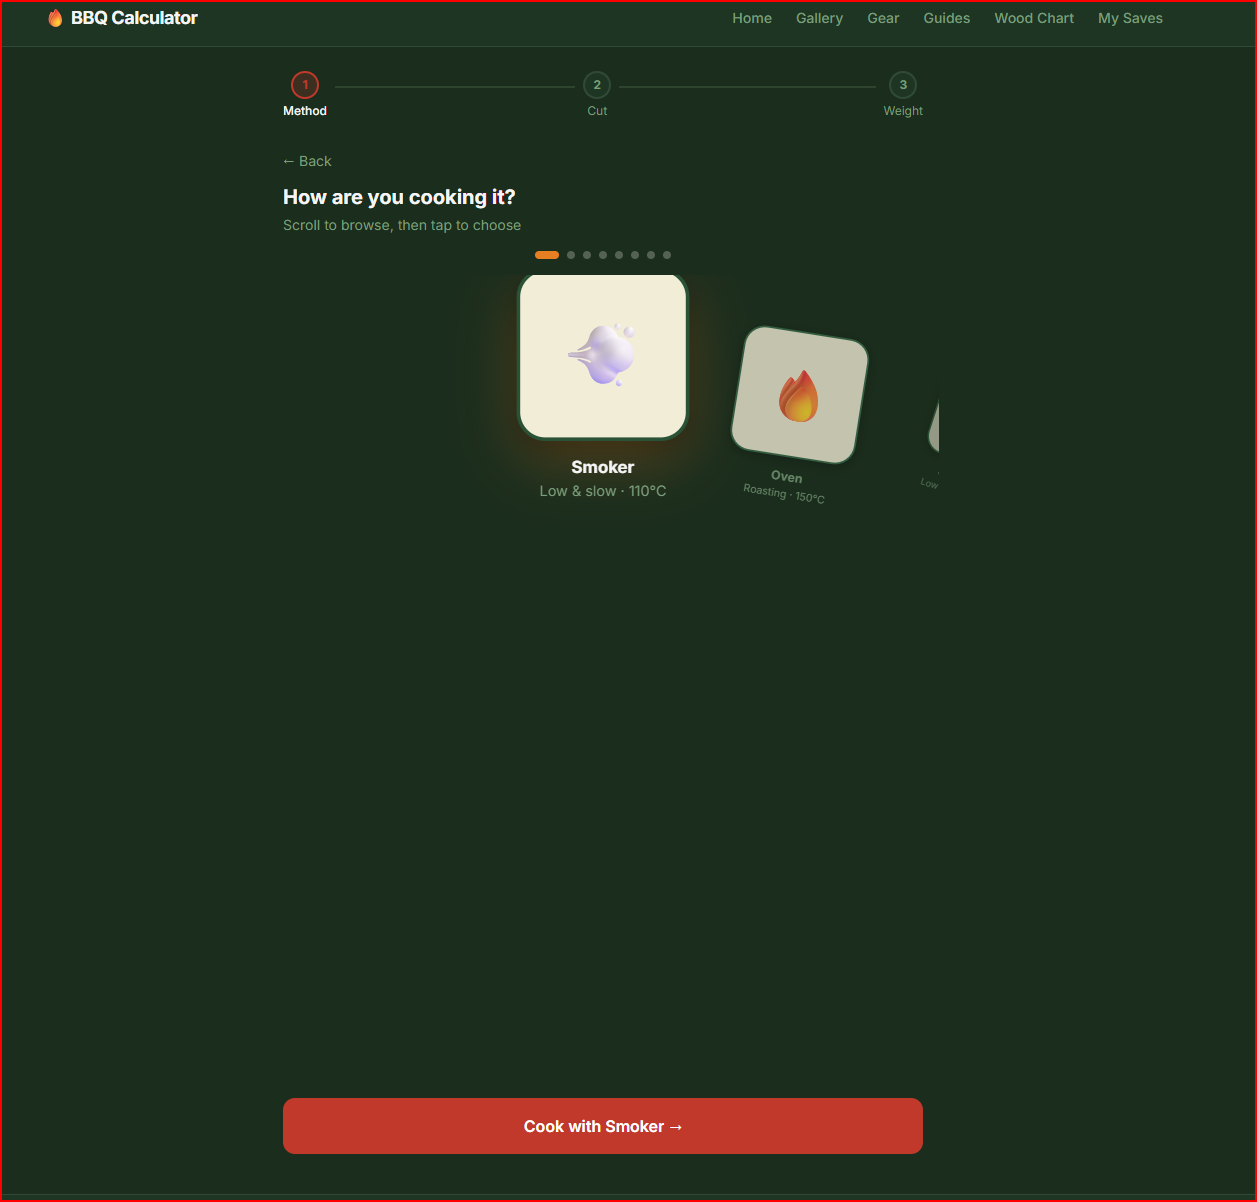
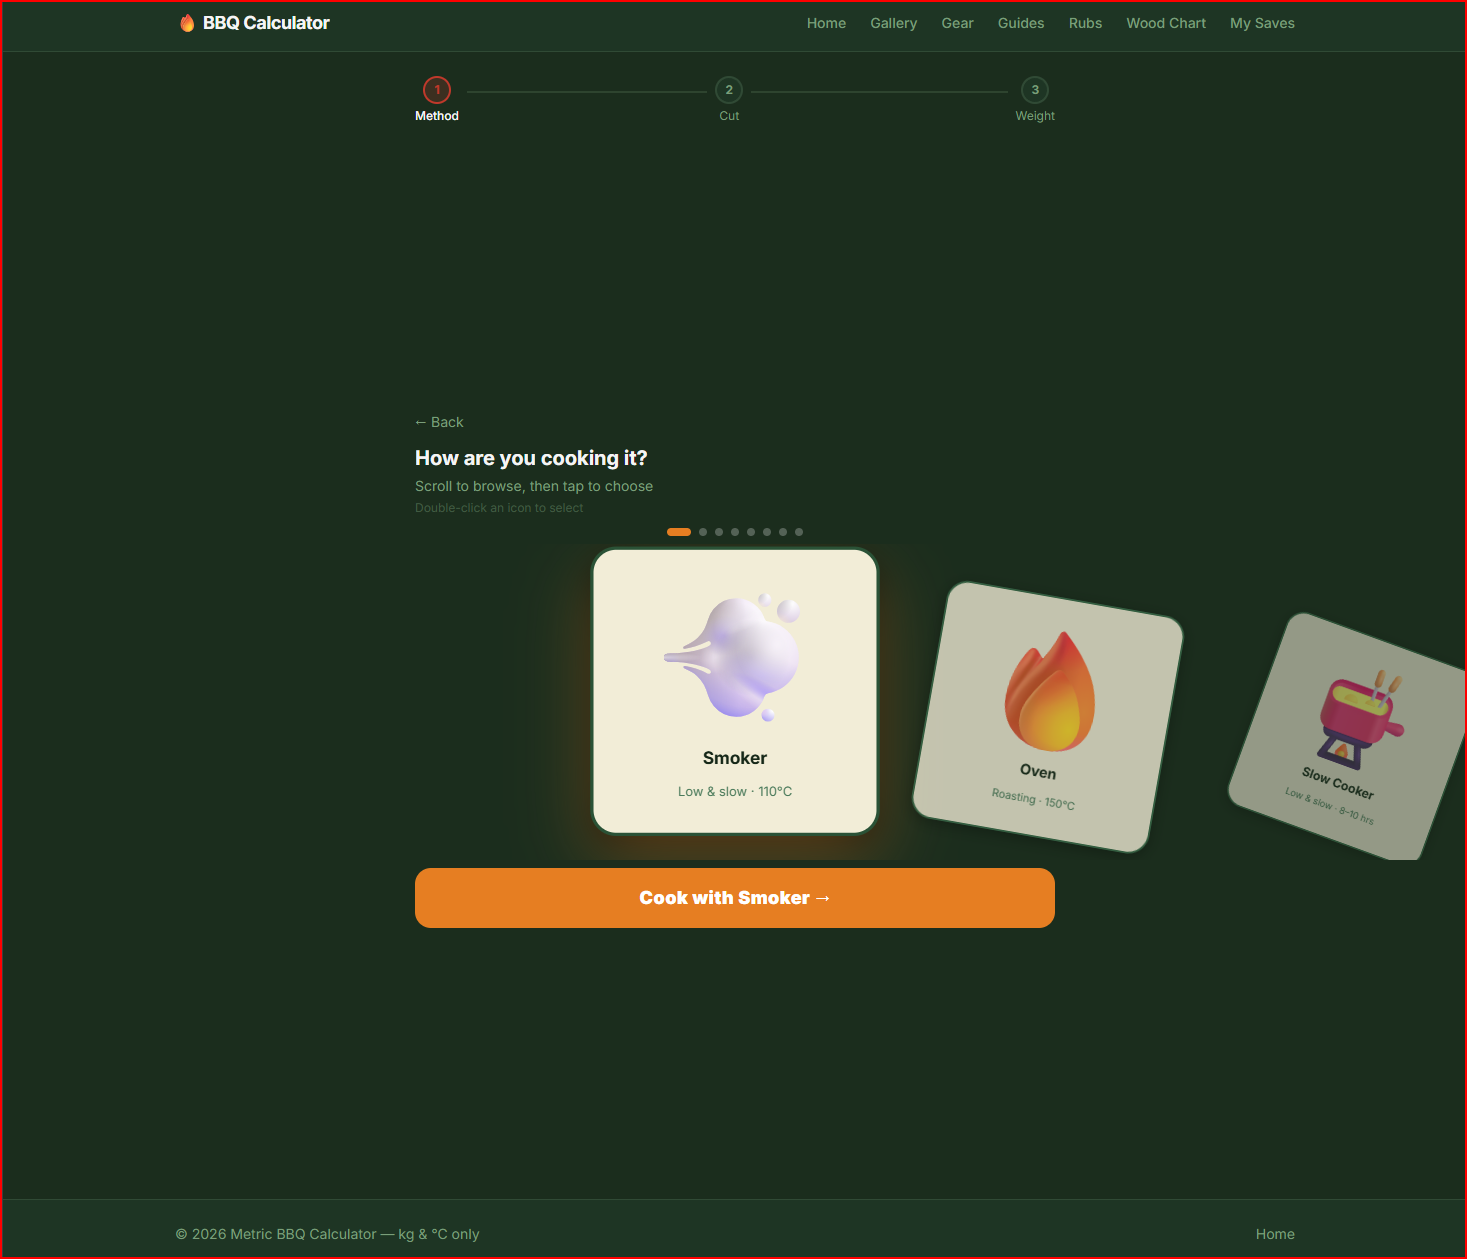
fix: carousel vertical centering (remove flex-1 spacer) + gear cleanup + images
LAYOUT FIX:
- HeroCarousel: removed flex-1 spacer (line 265) that was pushing CTA to
  bottom of page leaving massive void. Changed outer div to justify-center
  so the entire content block (dots + carousel + headline + CTA) sits in
  the vertical center of the page.
- Calculator progress bar: reduced pt-6 pb-6 to pt-4 pb-3 to give carousel
  steps more vertical room after the progress indicator.

GEAR PAGE:
- Removed Rubs & Seasonings category and 3 rub items (those live on /rubs)
- Removed Rubs & Seasonings filter tab from category list

PRODUCT IMAGES:
- /api/og-image now tries ALL product URLs (not just dp/ ASIN links)
- Added Amazon search result thumbnail extraction pattern:
  m.media-amazon.com/images/I/... from first search result
- Filters out transparent-pixel and amazon-adsystem generic images
- gear/page.tsx and rubs/page.tsx both now fetch images for all products

diff --git a/data/gear.ts b/data/gear.ts
@@ -104,29 +104,6 @@ export const GEAR: GearItem[] = [
     affiliateUrl: 'https://www.amazon.com.au/s?k=BBQ+Guru+DigiQ+DX3&tag=bsbsbs0f-22',
   },
 
-  // ── Rubs & Seasonings ─────────────────────────────────────────────────────────
-  {
-    slug: 'meat-church-holy-gospel',
-    name: 'Meat Church Holy Gospel Rub',
-    category: 'Rubs & Seasonings',
-    description: 'Garlic-herb all-purpose rub — creates pro-level bark on pork, ribs, and chicken.',
-    affiliateUrl: 'https://www.amazon.com.au/s?k=Meat+Church+Holy+Gospel+Rub&tag=bsbsbs0f-22',
-  },
-  {
-    slug: 'meat-church-holy-cow',
-    name: 'Meat Church Holy Cow Rub',
-    category: 'Rubs & Seasonings',
-    description: 'Peppery beef crust — the go-to for brisket and beef short ribs.',
-    affiliateUrl: 'https://www.amazon.com.au/s?k=Meat+Church+Holy+Cow+Rub&tag=bsbsbs0f-22',
-  },
-  {
-    slug: 'killer-hogs-tx-brisket',
-    name: 'Killer Hogs TX Brisket Rub',
-    category: 'Rubs & Seasonings',
-    description: 'Authentic Texas-style salt & pepper with a hint of spice — competition ready.',
-    affiliateUrl: 'https://www.amazon.com.au/s?k=Killer+Hogs+TX+Brisket+Rub&tag=bsbsbs0f-22',
-  },
-
   // ── Charcoal & Wood ───────────────────────────────────────────────────────────
   {
     slug: 'kingsford-oak-chunks',
@@ -237,7 +214,6 @@ export const GEAR_CATEGORIES = [
   { id: 'Thermometers',        emoji: '🌡️' },
   { id: 'Safety & Protection', emoji: '🧤' },
   { id: 'Tools & Accessories', emoji: '🛠️' },
-  { id: 'Rubs & Seasonings',   emoji: '🧂' },
   { id: 'Charcoal & Wood',     emoji: '🪵' },
   { id: 'Cookware & Storage',  emoji: '🍳' },
   { id: 'Dehydrators',         emoji: '🌬️' },

diff --git a/app/api/og-image/route.ts b/app/api/og-image/route.ts
@@ -13,26 +13,34 @@ export async function GET(req: Request) {
         Accept: 'text/html,application/xhtml+xml',
         'Accept-Language': 'en-AU,en;q=0.9',
       },
-      signal: AbortSignal.timeout(5000),
+      signal: AbortSignal.timeout(6000),
     });
 
     if (!res.ok) return NextResponse.json({ image: null });
     const html = await res.text();
 
-    // Try og:image first
+    // og:image (works for both dp/ and s?k= pages)
     const ogMatch =
       html.match(/<meta[^>]+property=["']og:image["'][^>]+content=["']([^"']+)["']/i) ??
       html.match(/<meta[^>]+content=["']([^"']+)["'][^>]+property=["']og:image["']/i);
-    if (ogMatch?.[1]) {
+    if (ogMatch?.[1] && !ogMatch[1].includes('amazon-adsystem') && !ogMatch[1].includes('transparent-pixel')) {
       return NextResponse.json({ image: ogMatch[1] }, {
         headers: { 'Cache-Control': 'public, max-age=86400, s-maxage=86400' },
       });
     }
 
-    // Fallback: look for Amazon's main product image pattern
-    const imgMatch = html.match(/"hiRes"\s*:\s*"(https:\/\/m\.media-amazon\.com\/images\/I\/[^"]+)"/);
-    if (imgMatch?.[1]) {
-      return NextResponse.json({ image: imgMatch[1] }, {
+    // Amazon hiRes product image (dp/ pages)
+    const hiResMatch = html.match(/"hiRes"\s*:\s*"(https:\/\/m\.media-amazon\.com\/images\/I\/[^"]+)"/);
+    if (hiResMatch?.[1]) {
+      return NextResponse.json({ image: hiResMatch[1] }, {
+        headers: { 'Cache-Control': 'public, max-age=86400, s-maxage=86400' },
+      });
+    }
+
+    // Search result pages — grab first product thumbnail
+    const thumbMatch = html.match(/https:\/\/m\.media-amazon\.com\/images\/I\/[A-Za-z0-9%+_-]+\._[A-Z0-9,_]+_\.(?:jpg|png|webp)/);
+    if (thumbMatch?.[0]) {
+      return NextResponse.json({ image: thumbMatch[0] }, {
         headers: { 'Cache-Control': 'public, max-age=86400, s-maxage=86400' },
       });
     }

diff --git a/components/home/HeroCarousel.tsx b/components/home/HeroCarousel.tsx
@@ -183,9 +183,9 @@ export default function HeroCarousel() {
   const halfCard = cardW / 2;
 
   return (
-    <div className="flex flex-col w-full flex-1" style={{ gap: 0 }}>
+    <div className="flex flex-col w-full flex-1 justify-center" style={{ gap: 0 }}>
       {/* Dot navigation */}
-      <div className="flex justify-center gap-2 py-4">
+      <div className="flex justify-center gap-2 py-3">
         {CATEGORIES.map((_, i) => (
           <button
             key={i}
@@ -262,10 +262,8 @@ export default function HeroCarousel() {
         )}
       </div>
 
-      <div className="flex-1" />
-
       {/* CTA */}
-      <div className="px-6 pb-8">
+      <div className="px-6 pt-2 pb-6">
         <button
           onClick={proceed}
           className="w-full bg-brand-secondary hover:bg-brand-primary transition-colors text-white font-black text-lg px-8 py-4 rounded-2xl tracking-wide"

diff --git a/app/calculator/page.tsx b/app/calculator/page.tsx
@@ -88,7 +88,7 @@ function CalculatorInner() {
   return (
     <div className="flex flex-col flex-1">
       {/* ── Progress bar — constrained, padded ─────────────────────────── */}
-      <div className="max-w-2xl mx-auto w-full px-4 pt-6 pb-6">
+      <div className="max-w-2xl mx-auto w-full px-4 pt-4 pb-3">
         <ProgressBar current={state.step} total={totalSteps} />
       </div>
 

diff --git a/app/gear/page.tsx b/app/gear/page.tsx
@@ -8,8 +8,6 @@ function ProductImage({ url, fallback }: { url: string; fallback: string }) {
   const [src, setSrc] = useState<string | null>(null);
 
   useEffect(() => {
-    // Only try dp/ (ASIN) pages — search pages return generic Amazon images
-    if (!url.includes('/dp/')) { setSrc(''); return; }
     fetch(`/api/og-image?url=${encodeURIComponent(url)}`)
       .then((r) => r.json())
       .then(({ image }) => setSrc(image ?? ''))

diff --git a/app/rubs/page.tsx b/app/rubs/page.tsx
@@ -8,7 +8,6 @@ function ProductImage({ url, fallback }: { url: string; fallback: string }) {
   const [src, setSrc] = useState<string | null>(null);
 
   useEffect(() => {
-    if (!url.includes('/dp/')) { setSrc(''); return; }
     fetch(`/api/og-image?url=${encodeURIComponent(url)}`)
       .then((r) => r.json())
       .then(({ image }) => setSrc(image ?? ''))